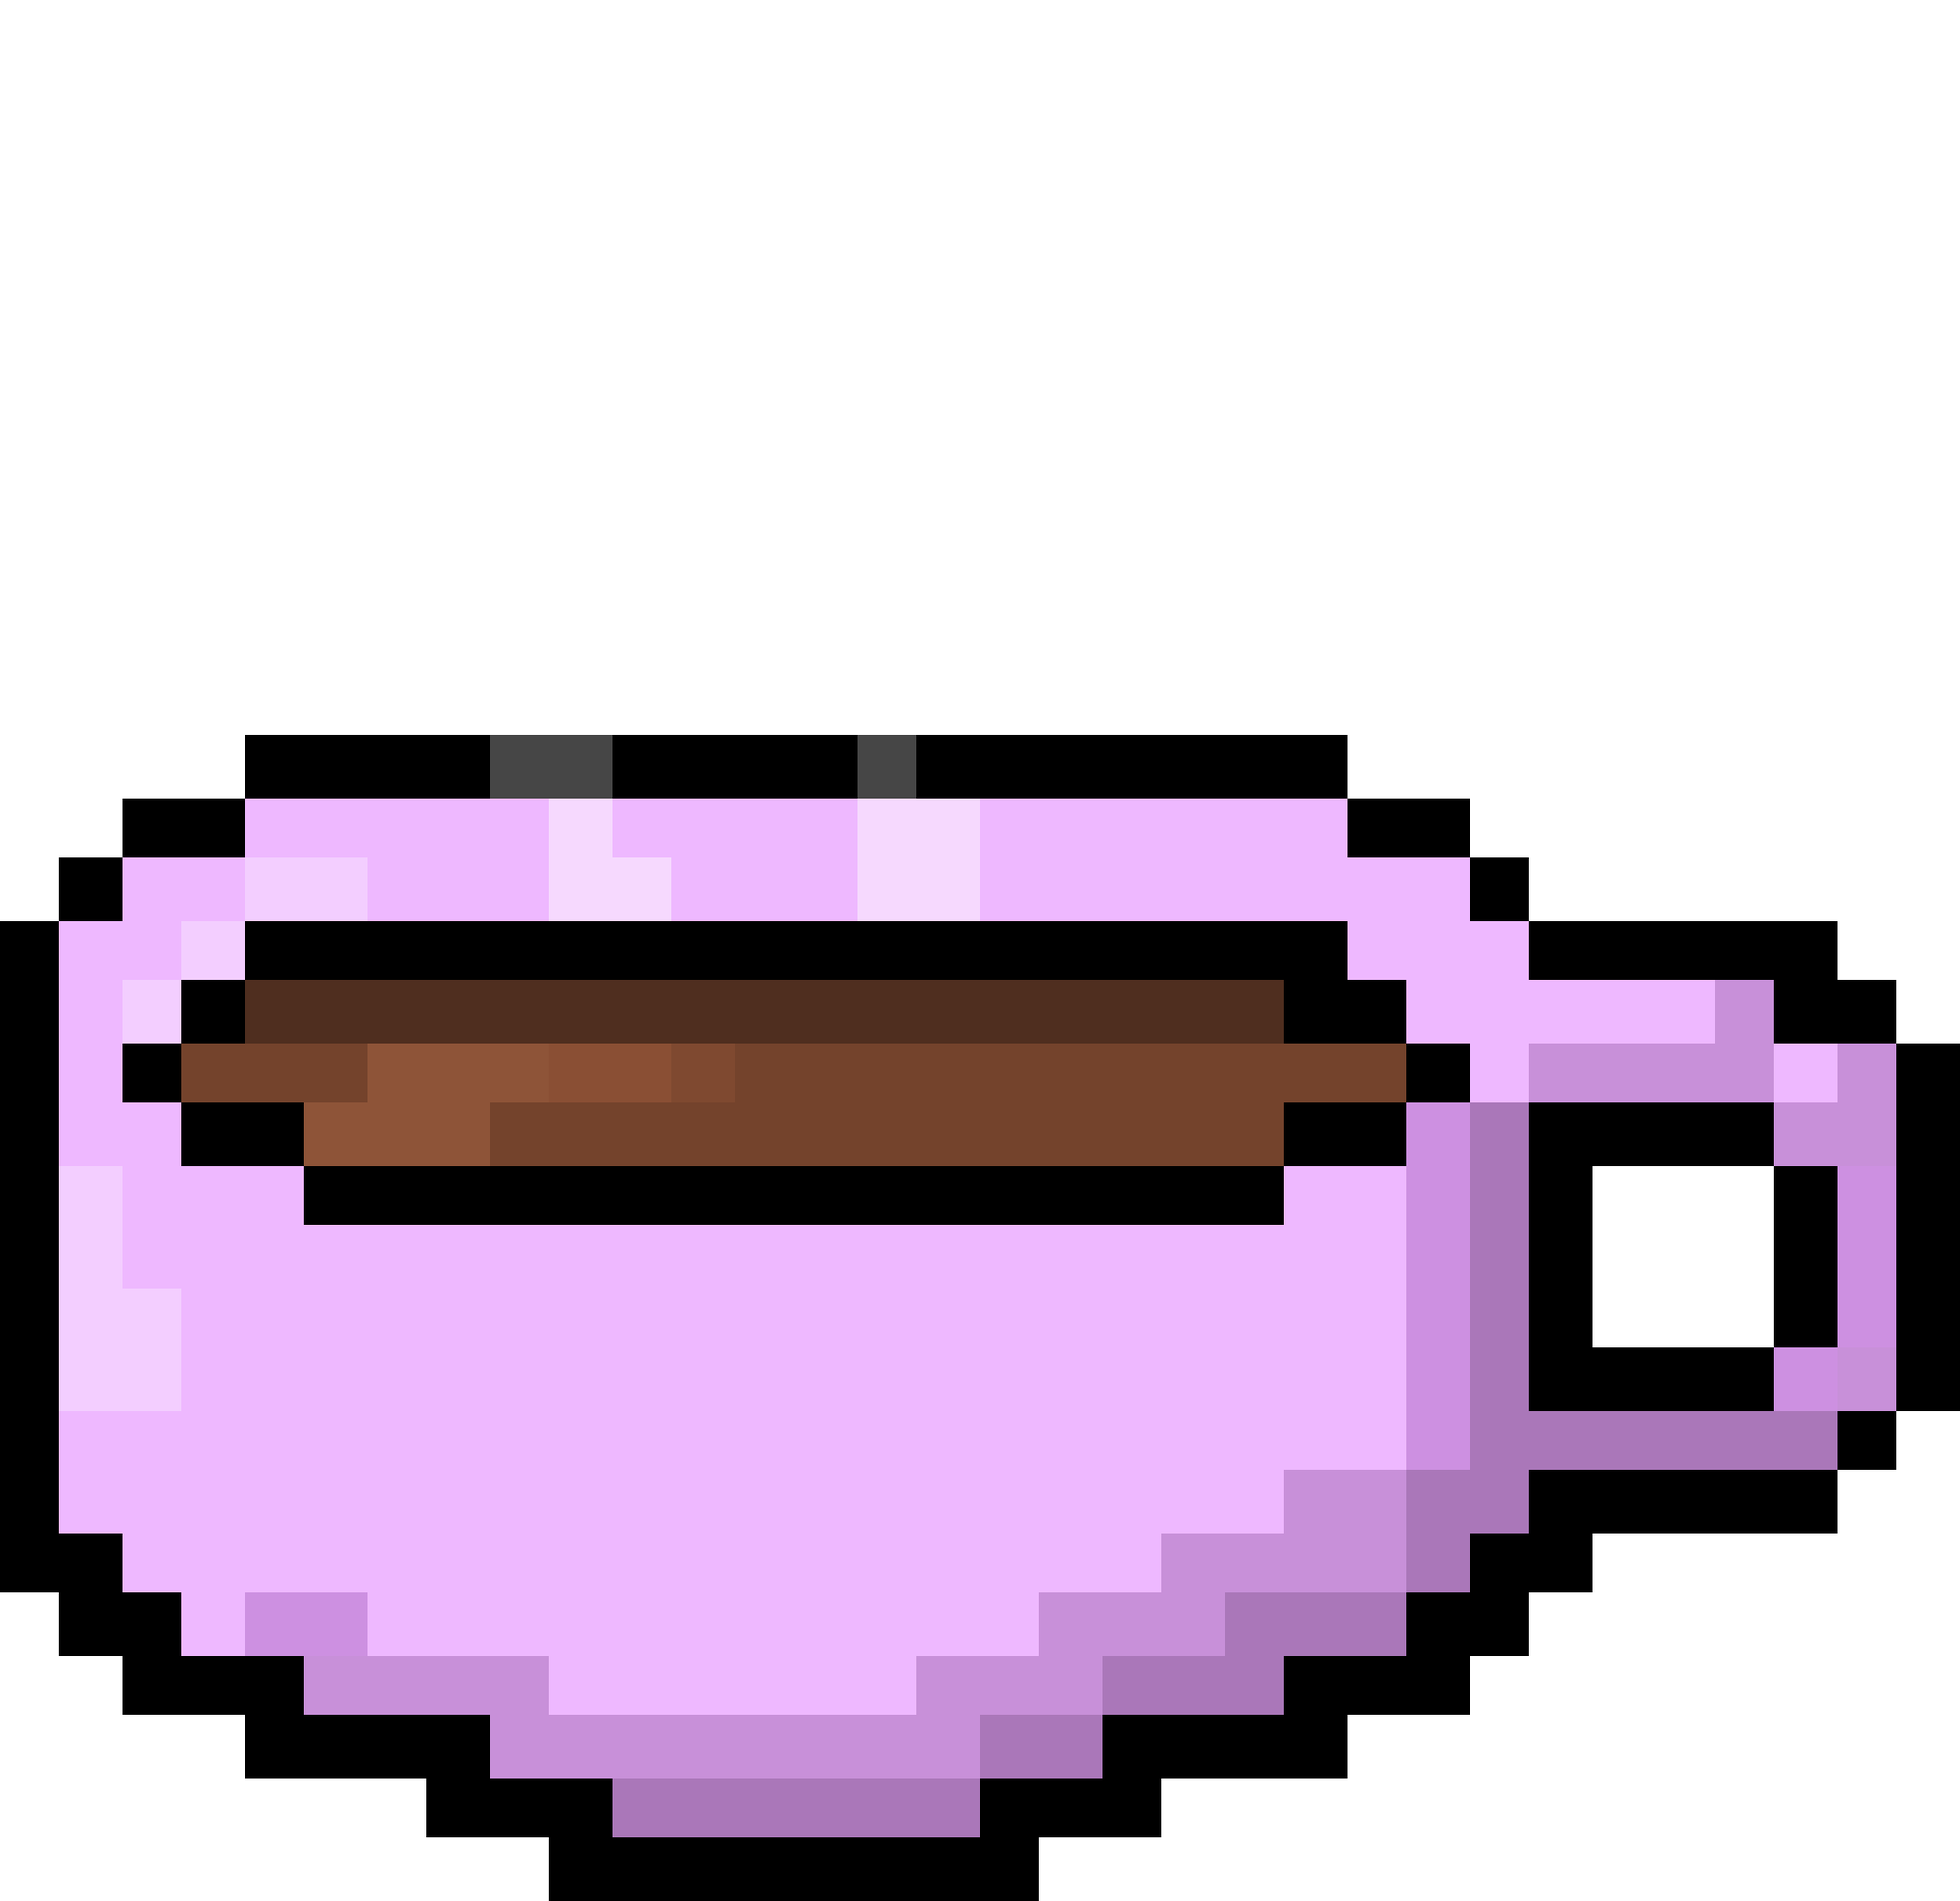
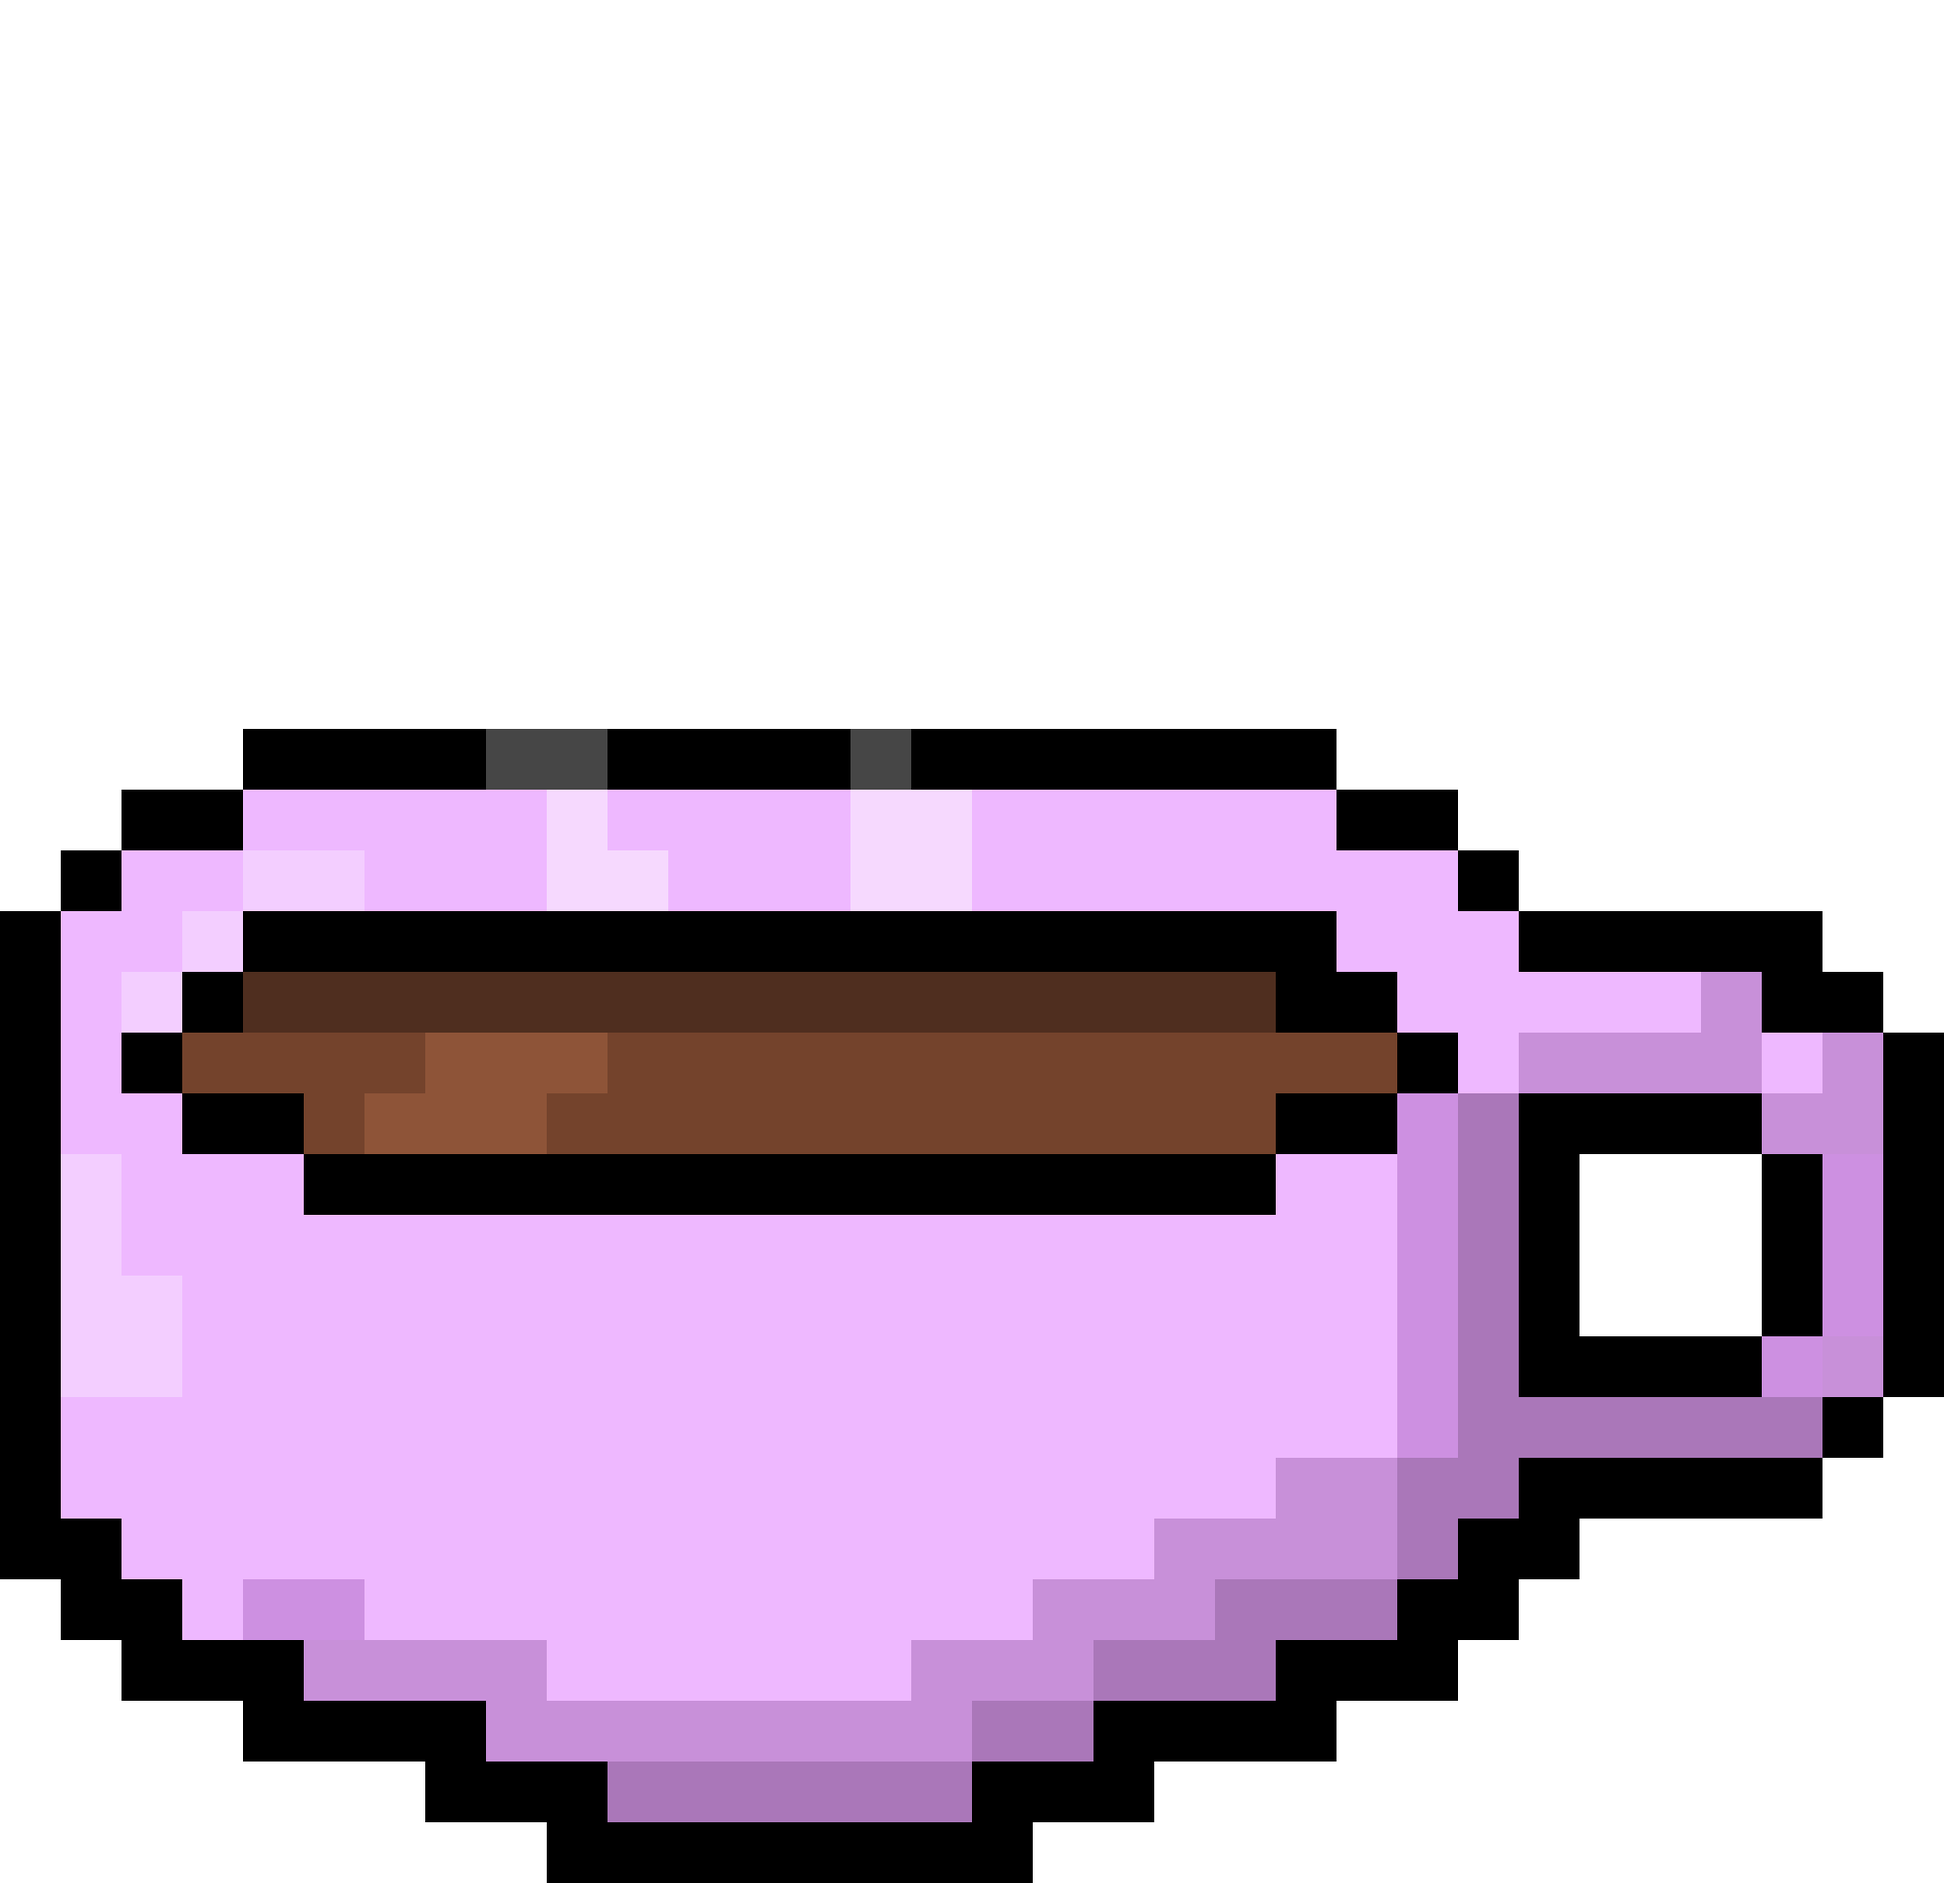
edited photos more for animations and changed style.css and script.js

Changed region(s): [[0.1562, 0.5307, 0.2188, 0.6243], [0.25, 0.5619, 0.2812, 0.6243]]

diff --git a/index.html b/index.html
@@ -11,9 +11,18 @@
 <body>
     <!-- pomodoro settings -->
     <div id="pomodoro">
-        <button class="pomodoro-btn" id="focus-btn">focus</button>
-        <button class="pomodoro-btn" id="break-btn">short break</button>
-        <button class="pomodoro-btn" id="long-break-btn">long break</button>
+        <button class="pomodoro-btn" id="focus-btn">
+            <img id="coffee-image" class="pomodoro-icon" src="coffee.png" alt="coffee icon">
+            <span class="pomodoro-label">focus</span>
+        </button>
+        <button class="pomodoro-btn" id="break-btn">
+            <img id="cat-image" class="pomodoro-icon" src="cat.png" alt="cat icon">
+            <span class="pomodoro-label">short break</span>
+        </button>
+        <button class="pomodoro-btn" id="long-break-btn">
+            <img id="moon-image" class="pomodoro-icon" src="moon.png" alt="moon icon">
+            <span class="pomodoro-label">long break</span>
+        </button>
     </div>
     <!--title and desc-->
     <h1>pomodoro timer</h1>
@@ -34,6 +43,7 @@
 
 
     <script src="script.js"></script>
+    <script src="animation.js"></script>
 </body>
 
 </html>

diff --git a/animation.js b/animation.js
@@ -1,0 +1,31 @@
+const catImage = document.getElementById("cat-image");
+const coffeeImage = document.getElementById("coffee-image");
+const moonImage = document.getElementById("moon-image");
+
+let coffeeFrame = 1;
+
+function animateCoffee() {
+    coffeeFrame = coffeeFrame === 1 ? 2 : 1;
+    coffeeImage.src = `coffee${coffeeFrame}.png`;
+    setTimeout(animateCoffee, 700);
+}
+
+let catFrame = 1;
+
+function animateCat() {
+    catFrame = catFrame === 1 ? 2 : 1;
+    catImage.src = `cat${catFrame}.png`;
+    setTimeout(animateCat, catFrame === 1 ? 3000 : 150); 
+}
+
+let moonFrame = 1;
+
+function animateMoon() {
+    moonFrame = moonFrame === 1 ? 2 : 1;
+    moonImage.src = `moon${moonFrame}.png`;
+    setTimeout(animateMoon, 200);
+}
+
+animateCoffee();
+animateCat();
+animateMoon();

diff --git a/style.css b/style.css
@@ -5,3 +5,12 @@ body {
     image-rendering: pixelated;
 }
 
+.pomodoro-icon {
+    display: block;
+    height: 100px;
+    width: 100px;
+    object-fit: contain;
+    image-rendering: pixelated;
+    background: #e8cdf7;
+
+}
